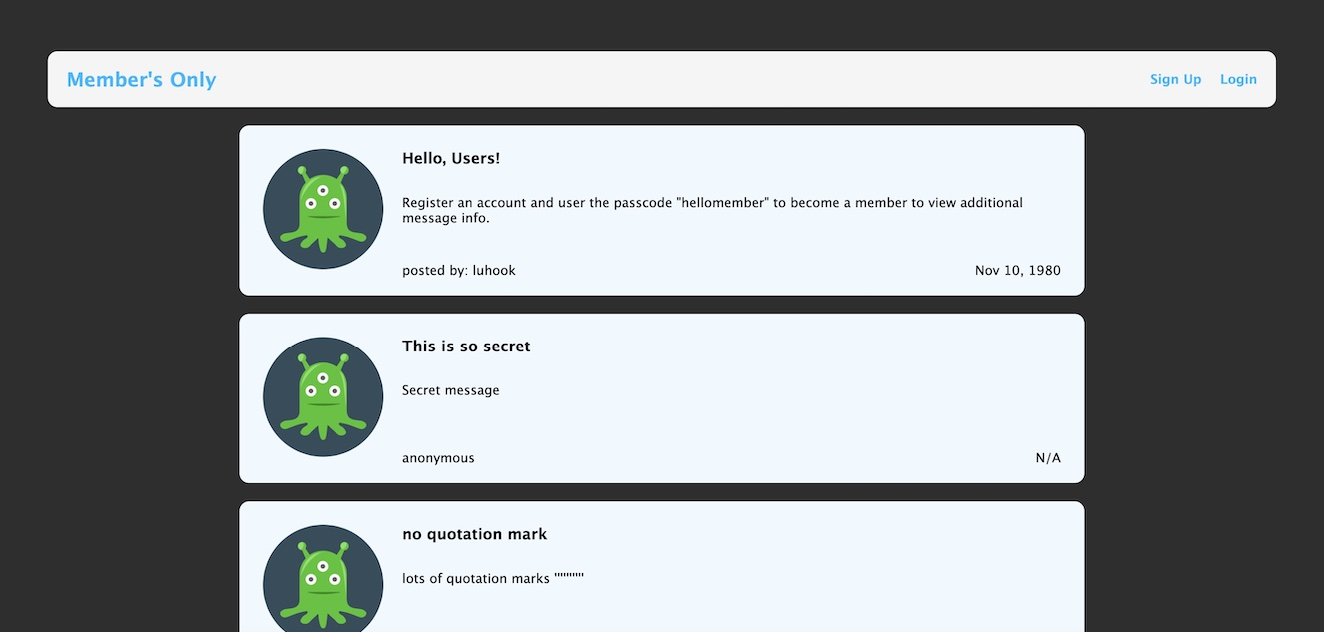
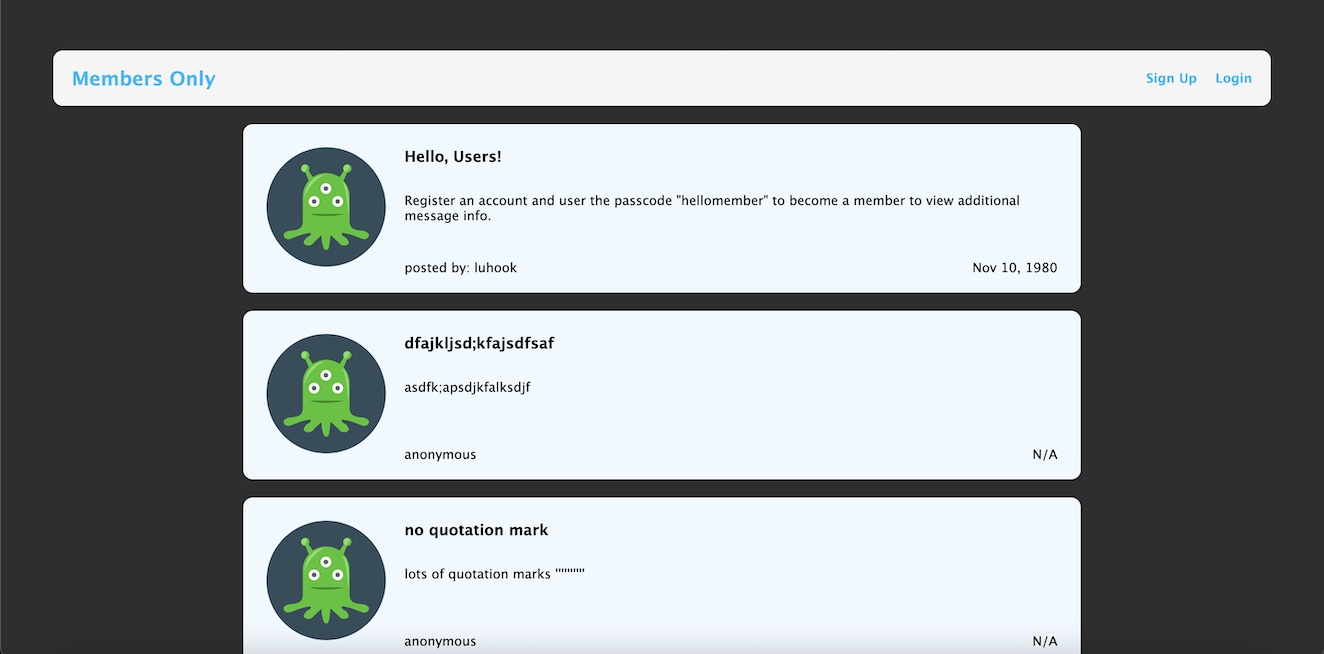
Change members-only photo

Changed region(s): [[0.031, 0.0601, 0.9909, 1.0]]

diff --git a/src/components/Projects.js b/src/components/Projects.js
@@ -18,7 +18,7 @@ const Projects = () => {
         <div className="project-info">
           <h2>Where's Waldo?</h2>
           <p>
-            Developed with React for the frontend and Firebase for the backend,
+            Developed with React for the front end and Firebase for the backend,
             Where's Waldo? is a game that keeps track of how long it takes for
             the user to find all four characters in the picture. Finish quickly
             to get your name up on the leaderboards!
@@ -50,10 +50,10 @@ const Projects = () => {
         <div className="project-info">
           <h2>Cap'n Hook's Blog</h2>
           <p>
-            Cap'n Hook's Blog is a MERN stack blogging website. There is a
-            client side website that allows users to read blog posts and add
-            comments, while the CMS website allows the admin to preform CRUD
-            operations on the posts and comments.
+            Cap'n Hook's Blog is a MERN stack blogging website. The client-side
+            website allows users to read blog posts and add comments, while the
+            CMS website permits the admin to perform CRUD operations on the blog
+            posts and comments.
           </p>
           <ul className="project-links">
             <li>
@@ -83,7 +83,7 @@ const Projects = () => {
           <h2>Luke's Store</h2>
           <p>
             Developed with React, Luke's Store is a fake online store that
-            fetches it's products from Fake Store API. The users can add and
+            fetches its products from Fake Store API. The user can add and
             remove items from their cart, and this app will keep track of their
             total cost and items selected.
           </p>
@@ -112,11 +112,12 @@ const Projects = () => {
       <div className="project-container">
         <img src={membersPic} alt="" />
         <div className="project-info">
-          <h2>Member's Only</h2>
+          <h2>Members Only</h2>
           <p>
-            Member's Only was built with Express using modern authentication and
-            security tactics. It is a message board that hides specific message
-            information depending on the users authentication level.
+            Members Only is a forum app built with Express using modern
+            authentication and security tactics. It is a message board that
+            hides specific message information depending on the user's
+            authentication level.
           </p>
           <ul className="project-links">
             <li>
@@ -145,9 +146,9 @@ const Projects = () => {
         <div className="project-info">
           <h2>Memory Game</h2>
           <p>
-            This a Pokémon memory game built using React. It displays random
-            pokémon fetched from the PokéAPI. The goal of the game is to click
-            on all twelve pokémon without repeating picks.
+            This app is a Pokémon memory game built using React. It displays
+            random pokémon fetched from the PokéAPI. The goal is to click on all
+            twelve pokémon without repeating picks. Can you catch 'em all?
           </p>
           <ul className="project-links">
             <li>
@@ -176,9 +177,9 @@ const Projects = () => {
         <div className="project-info">
           <h2>CV Creator</h2>
           <p>
-            CV Creator is a React app that has users input information into a
-            form on one side of the page, with a formatted CV being displayed on
-            the other side.
+            CV Creator is a React app where the user will input their
+            information into a form on one side of the page, and a formatted CV
+            will display on the other.
           </p>
           <ul className="project-links">
             <li>
